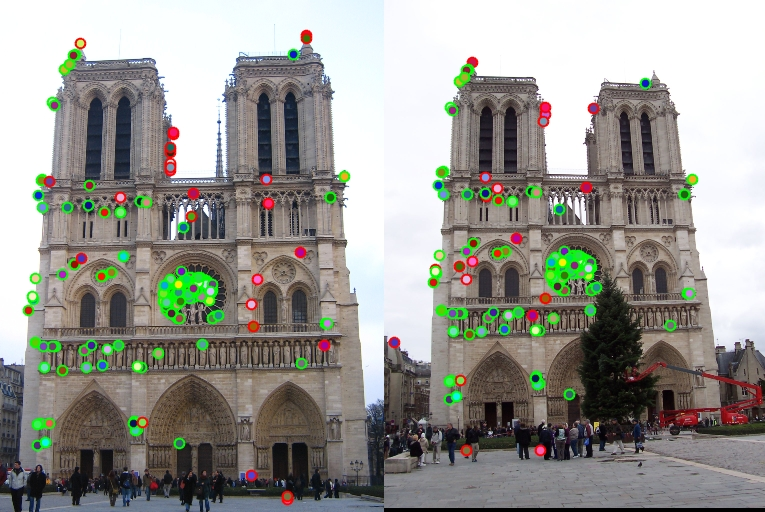
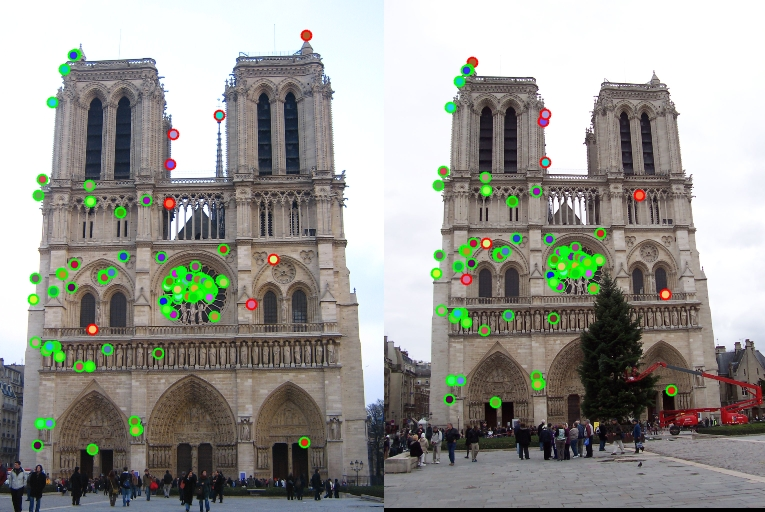
completed match_features

diff --git a/Project2/proj2/code/match_features.m b/Project2/proj2/code/match_features.m
@@ -22,21 +22,27 @@ function [matches, confidences] = match_features(features1, features2)
 % section 4.1.3 of Szeliski. For extra credit you can implement various
 % forms of spatial verification of matches.
 
-num_features = min(size(features1, 1), size(features2,1));
-matches = [];
-confidences=[];
-[r1,c1]=size(features1);
-[r2,c2]=size(features2);
-for i=1:r1
-    for j=1:r2
-        dist(i,j)=norm(features1(i,:)-features2(j,:));     
+[row_size_1,~]=size(features1);
+[row_size_2,~]=size(features2);
+
+% Find normalized distances between features
+
+for i=1:row_size_1
+    for j=1:row_size_2
+        normed(i,j)=norm(features1(i,:)-features2(j,:));
     end
 end
-for i=1:r1
-    [val,indx]=sort(dist(i,:));
-    if ((val(1)/val(2))<0.8)
-          matches=[matches;i indx(1)];
-          confidences=[confidences 1-(val(1)/val(2))];
+
+ % Calculating Nearest Neigbours
+ 
+matches = [];
+confidences = [];
+
+for i=1:row_size_1
+    [arr,indices]=sort(normed(i,:));
+    if ((arr(1)/arr(2))<0.90)
+          matches=[matches;i indices(1)];
+          confidences=[confidences 1-(arr(1)/arr(2))];
     end
 end
 

diff --git a/Project2/proj2/code/proj2.m b/Project2/proj2/code/proj2.m
@@ -80,7 +80,7 @@ feature_width = 16; %width and height of each local feature, in pixels.
 
 % There are two visualization functions. You can comment out one of both of
 % them if you prefer.
-num_pts_to_visualize = size(matches,1);
+num_pts_to_visualize = 100;
 show_correspondence(image1, image2, x1(matches(1:num_pts_to_visualize,1)), ...
                                     y1(matches(1:num_pts_to_visualize,1)), ...
                                     x2(matches(1:num_pts_to_visualize,2)), ...
@@ -98,7 +98,7 @@ show_correspondence2(image1, image2, x1(matches(1:num_pts_to_visualize,1)), ...
 % available. You can use collect_ground_truth_corr.m to build the ground
 % truth for other image pairs if you want, but it's very tedious. It would
 % be a great service to the class for future years, though!
-num_pts_to_evaluate = size(matches,1);
+num_pts_to_evaluate = 100;
 evaluate_correspondence(image1, image2, eval_file, scale_factor, ... 
                         x1(matches(1:num_pts_to_evaluate,1)), ...
                         y1(matches(1:num_pts_to_evaluate,1)), ...

diff --git a/Project2/proj2/code/get_interest_points.m b/Project2/proj2/code/get_interest_points.m
@@ -62,7 +62,7 @@ I_xy=imfilter(Ixy, gaussian_filter);
 % lambda0 * lambda1 - alpha(lambda0 + lamda1)^2
 
 alpha = 0.05;       % value proposed by Harris and Stephens (1988)
-threshold_val = 0.0008;
+threshold_val = 0.0005;
 harris_detector = (I_xx.*I_yy - I_xy.^2) - alpha*((I_xx+I_yy).^2);
 normalized_detector = harris_detector/max(max(harris_detector));
 normalized_detector(normalized_detector<threshold_val)=0;
